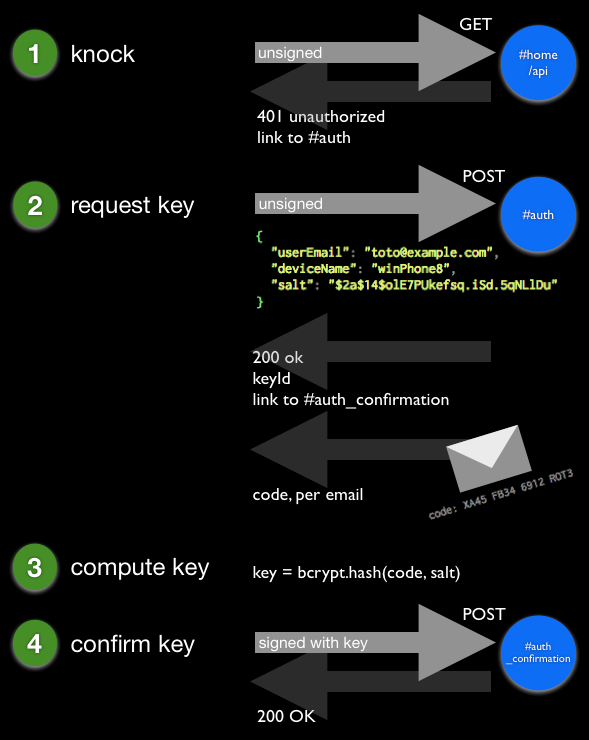
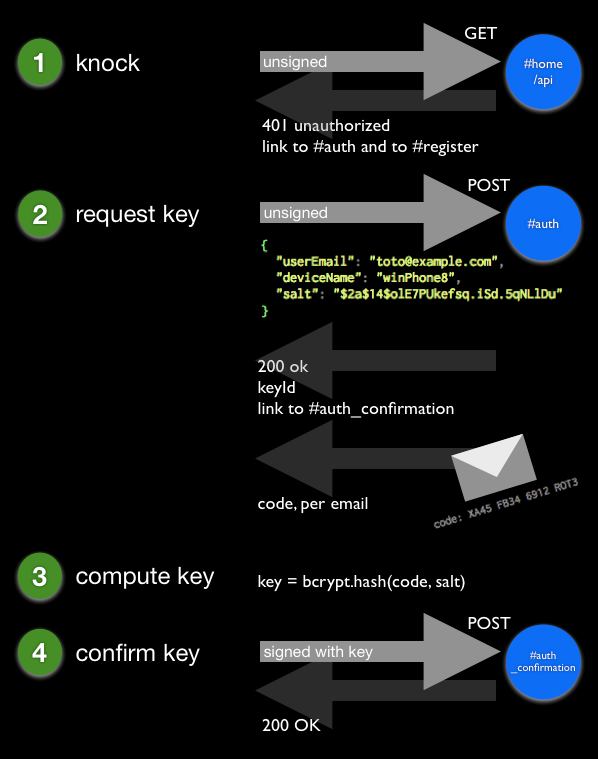
distinguish #auth and #register

diff --git a/_layouts/api.html b/_layouts/api.html
@@ -17,7 +17,8 @@ layout: site
 
           <li class="nav-header">auth</li>
           <li><a href="/api/auth.html">authentication</a></li>
-          <li><a href="/api/auth.html#secret">obtaining a secret key</a></li>
+          <li><a href="/api/auth.html#authenticate">existing account</a></li>
+          <li><a href="/api/auth.html#register">new account</a></li>
           <li><a href="/api/auth.html#signing">request signing</a></li>
 
           <li class="nav-header">flow</li>

diff --git a/api/auth.md b/api/auth.md
@@ -11,10 +11,13 @@ The signature is the result of a function that takes as input the request itself
 
 The secret key is shared between the client application that uses the API and the MyCourt system.
 
-The first step is to [obtain a secret key](#secret). Once this is done, keep that secret secret and [sign each request](#signing) with it.
+The first step is to obtain a secret key. Once this is done, keep that secret secret and [sign each request](#signing) with it.
 
+A secret key is coupled to a MyCourt account, that means there are two cases: [the account already exists](#authenticate) or an account doesn't exist and has to be [created and registered](#register).
 
-<h2 id="secret">Obtaining a secret key</h2>
+<h2 id="authenticate">existing MyCourt account</h2>
+
+The customer already has a MyCourt account (else jump to [registering](#register)).
 
 There are 4 steps to obtain a key. Those steps are a dialog between the client and the MyCourt system. Here is a graphical depiction:
 
@@ -45,6 +48,9 @@ You'll get a JSON document looking like:
         { "name": "deviceName", "required": true },
         { "name": "salt", "required": true }
       ]
+    },
+    "http://mycourtpro.github.io/api/rels.html#register": {
+      // ...
     }
   }
 }
@@ -54,7 +60,9 @@ This isn't a [200](flow.html#code200), but a 401 "unauthorized". MyCourt will po
 
 As explained in [flow](flow.html), you're supposed to follow the ```#auth``` link. Here it's easy, it's the only link the MyCourt API communicated to you.
 
-<h3 id="announce">Announce yourself</h3>
+(The ```#register``` link is for when the user doesn't have an account and one has [to be created](#register))
+
+<h3 id="auth-announce">Announcing the user</h3>
 
 The auth link looks like:
 
@@ -126,6 +134,45 @@ As just said, once you have requested a secret key over HTTPS and receveid by em
 This confirmation is only a matter of sending an empty JSON document (yes, ```{}``` is sufficient) via a POST to the ```#auth_confirmation``` link. But, this request has to be signed (with the secret key).
 
 Keep that secret key safely in your device/client. The platform you're developing for probably has a way to store such credentials in a secure way.
+
+
+<h2 id="register">register new MyCourt account</h2>
+
+(If the user already holds a MyCourt account, follow the instructions in [authenticating](#authenticate))
+
+Like when [authenticating](#authenticate) an existing MyCourt account, there are 4 steps to obtain a key. Those are the same steps, except for the 2nd one (announcing). Instead of following the ```#auth``` link, the ```#register``` link has to be followed.
+
+<img class="shadowed" src="/images/register_steps.png" />
+
+<h3 id="register-announce">Announcing the new user</h3>
+
+When "announcing" an already existing MyCourt account, the client only has to pass the "userEmail", "deviceName" and a computed "salt". When announcing a new MyCourt account, the client has to pass those three pieces of information plus some more, here is what the ```#register``` link looks like:
+
+{% highlight javascript %}
+  "http://mycourtpro.github.io/api/rels.html#register": {
+    "href": "https://staging.mycourt.pro/api/register",
+    "method": "POST",
+    "fields": [
+
+      { "name": "userEmail", "required": true },
+      { "name": "deviceName", "required": true },
+      { "name": "salt", "required": true },
+
+      { "name": "firstName", "required": true },
+      { "name": "lastName", "required": true },
+      { "name": "birthDate", "required": true },
+      { "name": "gender", "required": true },
+      { "name": "dateFormat", "default": "dd.MM.yyyy" },
+      { "name": "lang", "default": "en" },
+
+      { "name": "password", "comment": "website password" }
+    ]
+  }
+{% endhighlight %}
+
+Post the requested information to ```#register```, the rest goes like when [the MyCourt account already exists](#authenticate).
+
+Please note that the ```password``` field is optional. If it's not set, the new account will first need a password reset request in order to be used on the "traditional" MyCourt web application.
 
 
 <h2 id="signing">Request signing</h2>

diff --git a/api/index.md b/api/index.md
@@ -19,6 +19,13 @@ If you encounter problems with the MyCourt API, feel free to [fill an issue](htt
 
 *Nota Bene*: you need a MyCourt account in order to use the MyCourt API. It's in our plans to provide signup via the API but it's not yet implemented.
 
+<h3 id="definitions">a few definitions</h3>
+
+Before diving into the API description / explanation, here are a few definitions of some of the terms used:
+
+* _client_: the piece of software that talks to the MyCourt API over HTTPs.
+* _customer_ or _user_: the person using the client or a classical web browser to interact with MyCourt.
+
 
 <h2 id="signing">Sign requests?</h2>
 
